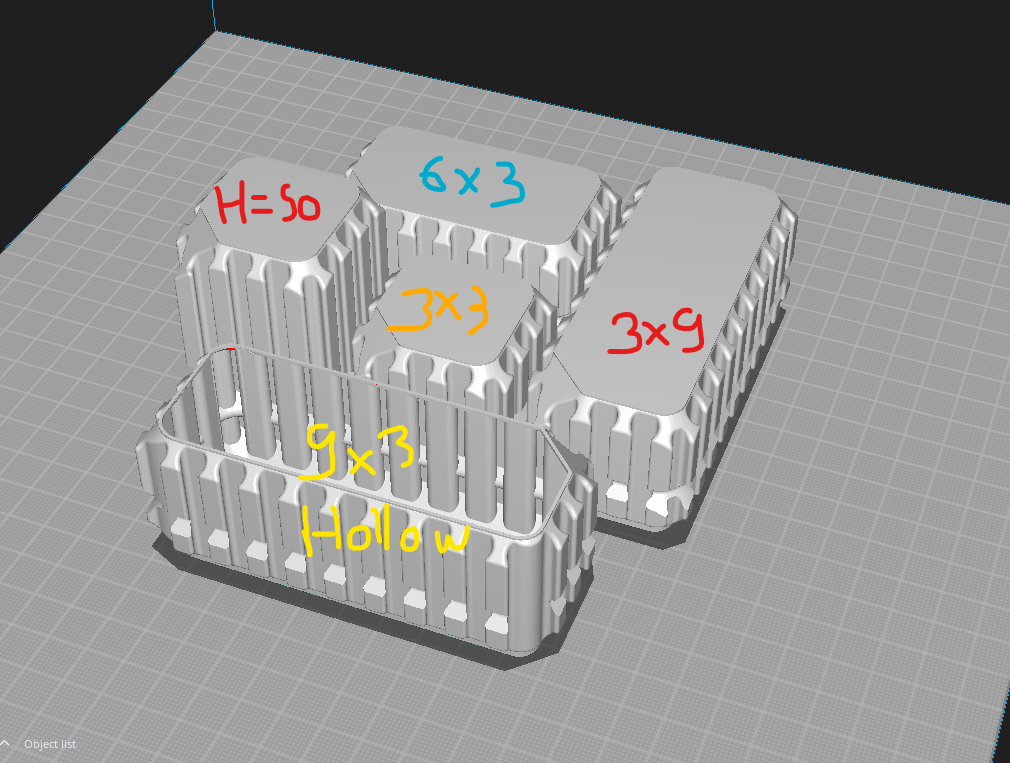
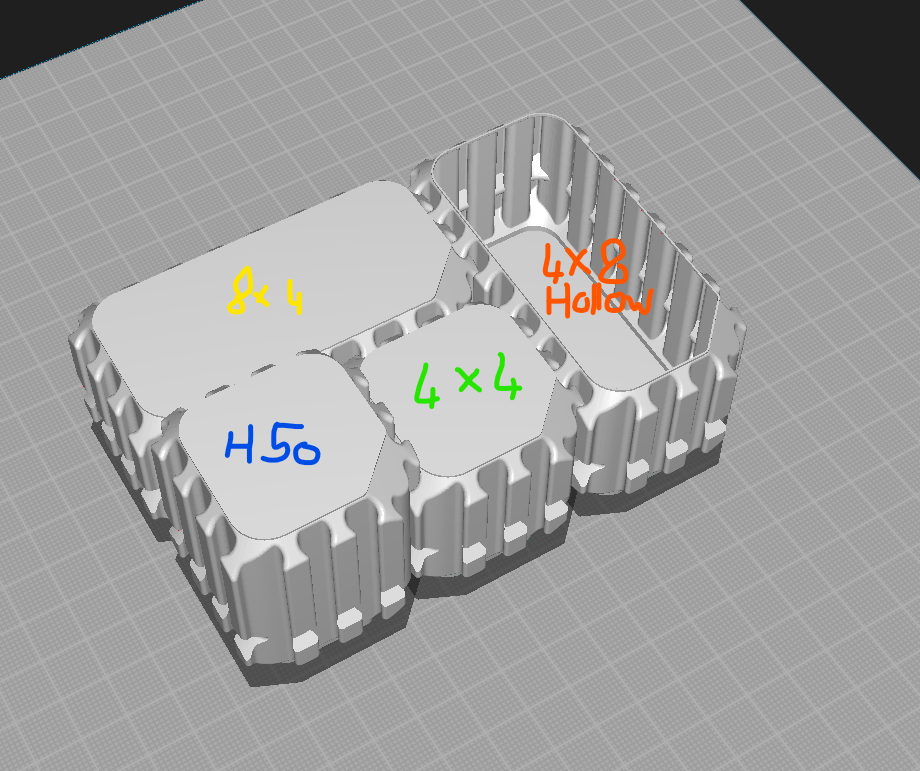
update README with the new nomenclature + typos.

diff --git a/interlocking_containers/create_box.py b/interlocking_containers/create_box.py
@@ -44,13 +44,15 @@ def create_box_size(
         print(f'warning: ny must be >= 3 ({ny=}). Will be ignored.')
     if height_mm < 40. and verbosity >= 1:
         print(f'warning: height_mm must be >= 40 ({height_mm=}). Will be ignored.')
-
-    mesh = load_model_cache(fill=fill).copy()  # make a copy, to avoid modifying the cached version.
+    if fill < 0 and verbosity >= 1:
+        print(f'warning: fill must be >= 0 ({fill=}). Will be ignored.')
 
     nx = max(nx, 3)
     ny = max(ny, 3)
     height_mm = max(height_mm, 40.0)
+    fill = int(max(fill, 0))
 
+    mesh = load_model_cache(fill=fill).copy()  # make a copy, to avoid modifying the cached version.
     axes = {
         'x': np.array([1, 0, 0]),
         'y': np.array([0, 1, 0]),

diff --git a/interlocking_containers/create_batch.py b/interlocking_containers/create_batch.py
@@ -48,7 +48,7 @@ def create_batch_box(
     for config in track(configs):
         fill_name = 'solid' if config.fill == 0 else f'hollow{config.fill}'
         height_name = f'height{int(config.height):03}'
-        subdir_path = path.join(output_dir, fill_name)
+        subdir_path = path.join(output_dir, fill_name, height_name)
         os.makedirs(subdir_path, exist_ok=True)
 
         output_filename = f'container_{fill_name}_H{int(config.height):03}_X{config.nx:02}_Y{config.ny:02}.stl'
